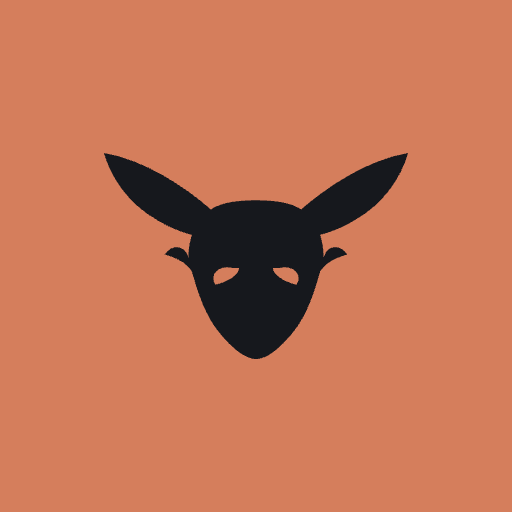
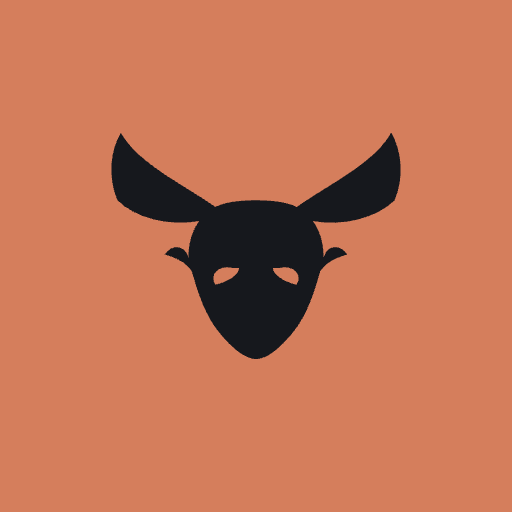
fix: curve the bull horns so the mark stops reading as a bunny
The horns tapered straight up, which at tab-bar size looked like ears. Redrawn
as a crescent that sweeps outward and hooks up — a bull horn — across the mark,
the tab glyph, every app icon, and the favicon.

diff --git a/components/TabBar.tsx b/components/TabBar.tsx
@@ -68,8 +68,8 @@ export default function TabBar({
                     fillRule="evenodd"
                   >
                     <path d="M50 26 C43 26 38 27 35 30 C32 33 30 37 30 43 C29 39 25 39 23 42 C26 43 29 44 31 47 C33 54 35 60 39 65 C43 70 47 73 50 73 C53 73 57 70 61 65 C65 60 67 54 69 47 C71 44 74 43 77 42 C75 39 71 39 70 43 C70 37 68 33 65 30 C62 27 57 26 50 26 Z M43 46 C39 45 36 48 38 51 C42 50 45 48 45 46 Z M57 46 C61 45 64 48 62 51 C58 50 55 48 55 46 Z" />
-                    <path d="M37 29 C29 22 17 14 5 12 C7 19 12 27 21 32 C26 35 30 36 34 37 C34 34 35 31 37 29 Z" />
-                    <path transform="translate(100,0) scale(-1,1)" d="M37 29 C29 22 17 14 5 12 C7 19 12 27 21 32 C26 35 30 36 34 37 C34 34 35 31 37 29 Z" />
+                    <path d="M38 28 C28 21 15 15 10 6 C7 11 6 19 9 26 C14 31 24 34 34 32 C35 31 37 30 38 28 Z" />
+                    <path transform="translate(100,0) scale(-1,1)" d="M38 28 C28 21 15 15 10 6 C7 11 6 19 9 26 C14 31 24 34 34 32 C35 31 37 30 38 28 Z" />
                   </svg>
                 ) : (
                   <span
